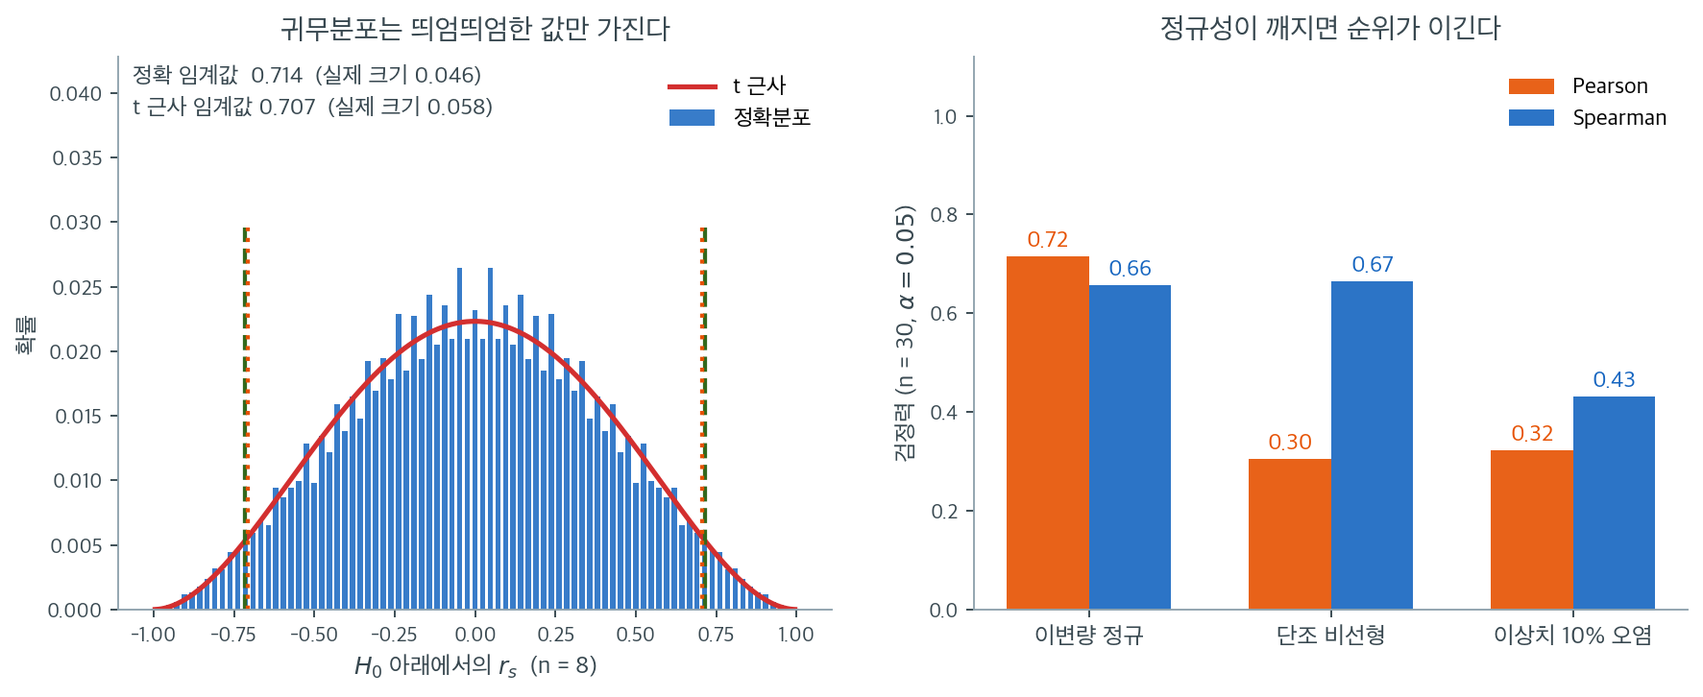
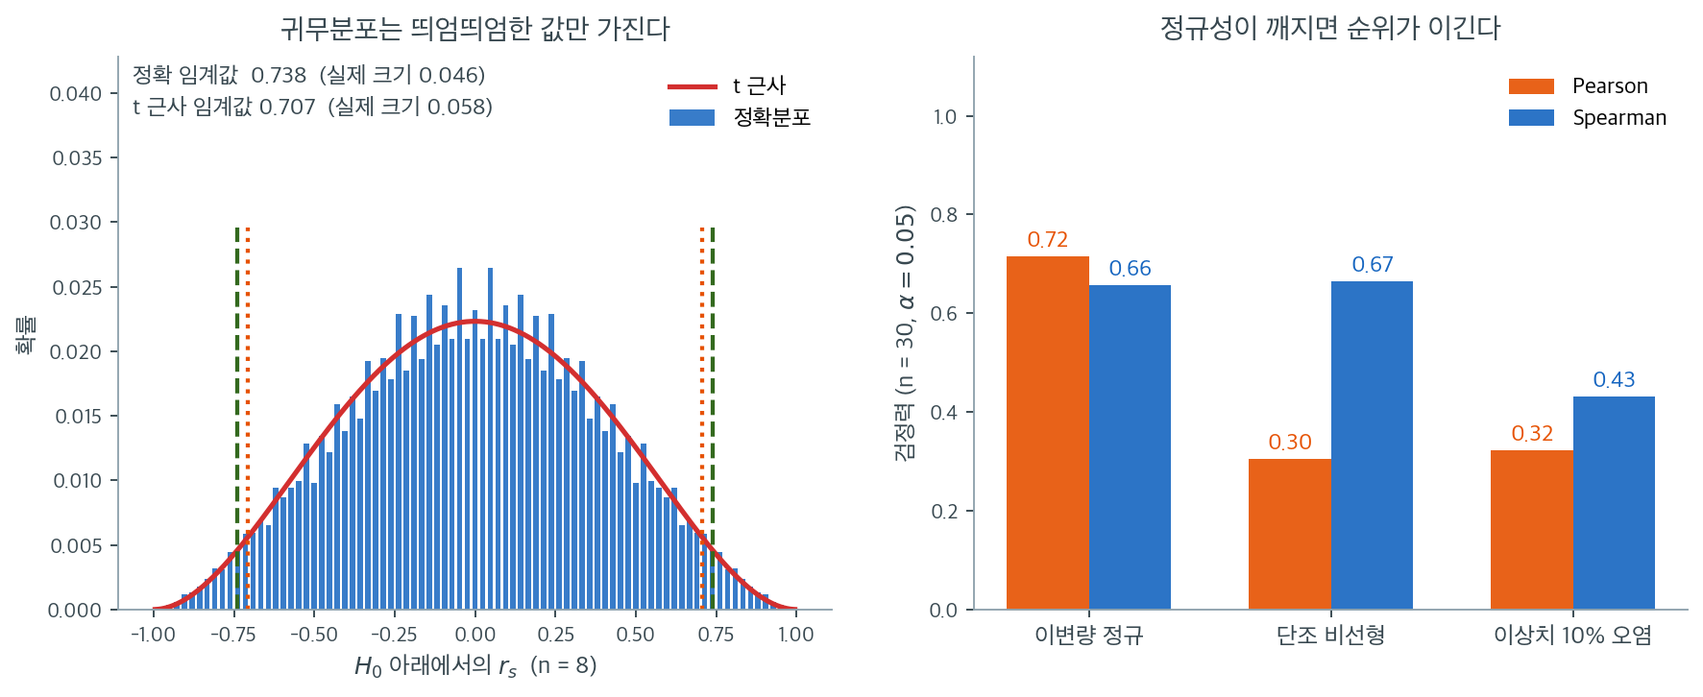
fix(ch12): 보고만 해 두었던 항목을 마무리한다
둘째 정독 패스가 고치지 않고 남긴 항목을 하나씩 판정해 끝냈다. 이미 닫힌 것과 보고가
틀린 것은 건드리지 않았고, 펜스를 고친 쪽은 실제로 돌린 출력을 붙여 verify_outputs 로
맞췄다. 그림을 다시 그린 것은 스크립트와 함께 담았다. 바깥 사실은 확인한 출처로만 고쳤다.

Changed region(s): [[0.4033, 0.3333, 0.4343, 0.8788], [0.1241, 0.3333, 0.1551, 0.8788], [0.1551, 0.0909, 0.2792, 0.1212]]

diff --git a/scripts/make_ch10_within_between.py b/scripts/make_ch10_within_between.py
@@ -2,7 +2,8 @@
 
 쪽의 2 절이 쓰는 설정 그대로다. 개인 1,800 명을 집단 간 상관 0.90,
 집단 내 상관 0.15 가 되도록 만들면 개인 수준 상관이 0.33 이고 30 명씩
-묶은 평균의 상관이 0.82 다.
+묶은 평균의 상관은 이론값이 0.82 다. 이 돌림(seed 1950)에서 실제로 나오는
+값은 0.3351 과 0.8431 이고 그림과 쪽의 캡션은 이 값을 쓴다.
 
 aggregation_inflation 은 그 둘의 산점도와 m 곡선을 그린다. 여기서는
 **한 그림 안에서** 집단 안의 기울기와 집단 사이의 기울기를 맞댄다 ---
@@ -25,8 +26,9 @@ def pair(n, rho, var):
     """표본 상관이 정확히 rho 가 되도록 맞춘 두 벡터.
 
     표본이 작으면(여기서는 집단 60 개) 뽑은 대로 두었을 때 상관이 목표에서
-    쉽게 벗어난다. 쪽이 적어 둔 0.33 과 0.82 를 그대로 재현하려고 직교화해
-    표본 상관을 못 박는다.
+    쉽게 벗어난다. 집단 간·집단 내 두 상관(0.90, 0.15)을 직교화해 못 박는다.
+    섞인 두 값(개인 0.3351, 묶은 평균 0.8431)은 못 박히지 않으므로 이론값
+    0.33·0.82 에서 조금 벗어난다.
     """
     a = rng.standard_normal(n)
     b = rng.standard_normal(n)
@@ -101,4 +103,4 @@ fig.savefig(path, dpi=170, facecolor="white", bbox_inches="tight")
 print("saved", path)
 print(f"  설정: 집단 간 {RB}, 집단 내 {RW}, Var_B = {VB:.4f}")
 print(f"  개인 수준 상관 {r_ind:.4f} (목표 0.33)")
-print(f"  {M} 명씩 묶은 평균의 상관 {r_grp:.4f} (목표 0.82)")
+print(f"  {M} 명씩 묶은 평균의 상관 {r_grp:.4f} (이론값 0.82)")

diff --git a/scripts/make_ch10_r_blind_to_scale.py b/scripts/make_ch10_r_blind_to_scale.py
@@ -1,4 +1,4 @@
-"""12.2절 회귀직선과 상관 — 상관은 순서만 보고 눈금은 보지 않는다.
+"""12.2절 회귀직선과 상관 — 상관은 순서만 보고 척도는 보지 않는다.
 
 예측을 통째로 4 만큼 올려 놓아도 순서는 그대로이니 상관이 정확히 1 인데,
 결정계수는 -1.0 이다. 「표적의 평균을 그냥 내놓는 것보다 두 배 나쁘다」는 뜻이다.
@@ -26,7 +26,7 @@ b, a = np.polyfit(x, y, 1)
 CASES = [("OLS 적합값\n(훈련 자료)", a + b * x, "tab:blue"),
          ("평행이동만\ny + 4", y + 4, "tab:red"),
          ("축소된 예측\n0.5y + 5", 0.5 * y + 5, "tab:orange"),
-         ("눈금이 어긋난 예측\n2y + 5", 2 * y + 5, "tab:purple")]
+         ("척도가 어긋난 예측\n2y + 5", 2 * y + 5, "tab:purple")]
 
 rows = [(lab, yh, c, stats.pearsonr(y, yh)[0], r2_score(y, yh))
         for lab, yh, c in CASES]

diff --git a/scripts/make_ch10_correlation_test_figures.py b/scripts/make_ch10_correlation_test_figures.py
@@ -151,11 +151,13 @@ def fig_spearman():
 
     vals = np.unique(np.round(np.abs(rs_all), 10))
     r_exact = None
+    # vals 는 소수 10 자리로 반올림했으므로 허용폭이 반올림 오차(~1e-11)보다 커야 한다.
+    # 1e-12 로 두면 0.714 원자가 빠져 임계값이 한 칸 낮게 찍힌다.
     for v in vals[::-1]:
-        if (np.abs(rs_all) >= v - 1e-12).mean() > 0.05:
+        if (np.abs(rs_all) >= v - 1e-9).mean() > 0.05:
             break
         r_exact = v
-    size_exact = float((np.abs(rs_all) >= r_exact - 1e-12).mean())
+    size_exact = float((np.abs(rs_all) >= r_exact - 1e-9).mean())
 
     # 검정력 비교
     reps = 4000

diff --git a/scripts/make_ch10_ecological_figures.py b/scripts/make_ch10_ecological_figures.py
@@ -6,7 +6,7 @@ r"""12장 생태학적 상관 네 쪽의 개념 그림을 생성한다.
   ch12/ecological_correlation/img/aggregation_inflation.png 집계는 상관을 부풀린다
   ch12/ecological_correlation/img/simpson_weights.png     가중평균이 부등호를 뒤집는다
 
-실행:  python3 scripts/make_ch12_ecological_figures.py   (저장소 최상위에서)
+실행:  python3 scripts/make_ch10_ecological_figures.py   (저장소 최상위에서)
 필요:  numpy, scipy, matplotlib — 문서 빌드에는 필요하지 않다.
        PNG는 커밋되므로 CI에서 다시 그리지 않는다.
 """

diff --git a/docs/ch12/correlation_test/comparing_correlations.md b/docs/ch12/correlation_test/comparing_correlations.md
@@ -69,9 +69,9 @@ $1915$ 년, 스물다섯 살의 로널드 피셔가 『Biometrika』 $10$ 권 $4
 
 피셔는 어조를 누그러뜨려 다른 곳에 실었다. 갓 창간된 이탈리아 학술지 **『Metron』 $1$ 권 $3$–$32$ 쪽**, 제목은 「작은 표본에서 얻은 상관계수의 「확률오차」에 관하여」. **$z$ 변환이 그 안에 있다.** 그리고 그는 다시는 『Biometrika』에 원고를 보내지 않겠다고 다짐했고, 그 다짐을 지켰다.
 
-그래서 이 쪽이 쓰는 도구는 창간호나 다름없는 학술지에 실려 있다. 넉 해 앞서 같은 편집자가 [파이 계수 쪽](../correlation/special_cases.md)의 상자에 나오는 그 싸움을 벌였다는 것을 떠올리면, 우연이 아니다. **학술지 하나의 편집권이 한 사람에게 있던 시절의 이야기다.**
+그래서 이 쪽이 쓰는 도구는 창간호나 다름없는 학술지에 실려 있다. $1913$ 년, 곧 그 「협동 연구」보다 넉 해 앞서 같은 편집자가 [파이 계수 쪽](../correlation/special_cases.md)의 상자에 나오는 그 싸움을 벌였다는 것을 떠올리면, 우연이 아니다. **학술지 하나의 편집권이 한 사람에게 있던 시절의 이야기다.**
 
-_확인한 곳 — Fisher 의 「Frequency distribution of the values of the correlation coefficient in samples of an indefinitely large population」이 『Biometrika』 $10$ 권 $4$ 호 $507$–$521$ 쪽($1915$)이고, $z$ 변환을 담은 「On the "probable error" of a coefficient of correlation deduced from a small sample」이 『Metron』 $1$ 권 $3$–$32$ 쪽($1921$)이며 $z$ 의 표준편차가 $\rho$ 와 무관한 $1/\sqrt{N-3}$ 이라는 것은 [Wikipedia 「Fisher transformation」](https://en.wikipedia.org/wiki/Fisher_transformation) · 피어슨이 이십 년 넘게 적률만 근사했다는 것, $1917$ 년에 그가 조수 넷과 「협동 연구」를 『Biometrika』에 실어 피셔의 결과가 베이즈 정리의 오용에서 나왔다고 문제 삼았다는 것, 피셔의 거친 반박을 피어슨이 게재 거절했고 피셔가 어조를 누그러뜨려 신생 학술지 『Metron』에 실었다는 것, 그리고 그가 다시는 『Biometrika』에 논문을 보내지 않기로 했다는 것은 Aris Spanos, [「R. A. Fisher: how an outsider revolutionized statistics」](https://errorstatistics.com/2014/02/17/r-a-fisher-how-an-outsider-revolutionized-statistics-2/) 에서 읽었다 — 그 글은 Joan Fisher Box 의 전기($1978$)와 Hald 의 통계사($1998$)를 근거로 든다. **나는 $1917$ 년 「협동 연구」 원본을 보지 않았다.** 그림의 표준편차와 편향은 $n = 12$ 에서 $200{,}000$ 번씩 모의실험해 직접 계산한 값이다_
+_확인한 곳 — Fisher 의 「Frequency distribution of the values of the correlation coefficient in samples of an indefinitely large population」이 『Biometrika』 $10$ 권 $4$ 호 $507$–$521$ 쪽($1915$)이고, $z$ 변환을 담은 「On the "probable error" of a coefficient of correlation deduced from a small sample」이 『Metron』 $1$ 권 $3$–$32$ 쪽($1921$)이며 $z$ 의 표준편차가 $\rho$ 와 무관한 $1/\sqrt{N-3}$ 이라는 것은 [Wikipedia 「Fisher transformation」](https://en.wikipedia.org/wiki/Fisher_transformation) · 피어슨이 이십 년 넘게 적률만 근사했다는 것, $1917$ 년에 그가 조수 넷과 「협동 연구」를 『Biometrika』에 실어 피셔의 결과가 베이즈 정리의 오용에서 나왔다고 문제 삼았다는 것, 피셔의 거친 반박을 피어슨이 게재 거절했고 피셔가 어조를 누그러뜨려 신생 학술지 『Metron』에 실었다는 것, 그리고 그가 다시는 『Biometrika』에 논문을 보내지 않기로 했다는 것은 Aris Spanos, [「R. A. Fisher: how an outsider revolutionized statistics」](https://errorstatistics.com/2014/02/17/r-a-fisher-how-an-outsider-revolutionized-statistics-2/) 에서 읽었다 — 그 글은 Joan Fisher Box 의 전기($1978$)와 Hald 의 통계사($1998$)를 근거로 든다. **나는 $1917$ 년 「협동 연구」 원본을 보지 않았다.** $1913$ 년의 싸움은 [파이 계수 쪽](../correlation/special_cases.md) 상자와 그 출처 줄에 있다. 그림의 표준편차와 편향은 $n = 12$ 에서 $200{,}000$ 번씩 모의실험해 직접 계산한 값이다_
 
 </div>
 
@@ -407,7 +407,7 @@ $$
 
     **이론 검정력 $0.8002$ 와 모의 검정력 $0.8009 \pm 0.0028$ 이 맞는다.** 차이 $0.0007$ 은 몬테카를로(Monte Carlo) 오차의 $4$ 분의 $1$ 이다. 귀무가설(null hypothesis)이 참일 때의 기각률도 $0.0498$ 로 명목 $0.05$ 와 맞으므로, 피셔 $z$ 근사가 $n = 130$ 에서 제 몫을 한다.
 
-    **표본이 겹치면 이 식을 쓸 수 없다.** 분산을 합으로 쓴 자리가 바로 두 $z$ 의 독립을 쓴 곳이다. 같은 사람에게서 잰 $r_{XY}$ 와 $r_{XZ}$ 는 $X$ 를 공유하므로 서로 독립이 아니고, 둘의 공분산은 $r_{YZ}$ 에 달려 있다. $r_{YZ}$ 가 크면 차이의 분산이 **합보다 한참 작아진다.** 실제로 $r_{XY} = r_{XZ} = 0.5$, $n = 200$ 에서 재어 보면 $r_{YZ} = 0.9$ 일 때 차이의 분산이 독립 가정이 주는 $2/(n-3)$ 의 **$0.13$ 배**, $r_{YZ} = 0.5$ 일 때 $0.56$ 배다. 그만큼 독립 공식은 분산을 부풀려 **지나치게 보수적인** 검정이 된다. 그래서 이 절 앞부분의 스타이거 식처럼 $r_{YZ}$ 가 들어간 별도의 공식이 필요하다.
+    **표본이 겹치면 이 식을 쓸 수 없다.** 분산을 합으로 쓴 자리가 바로 두 $z$ 의 독립을 쓴 곳이다. 같은 사람에게서 잰 $r_{XY}$ 와 $r_{XZ}$ 는 $X$ 를 공유하므로 서로 독립이 아니고, 둘의 공분산은 $r_{YZ}$ 에 달려 있다. $r_{YZ}$ 가 크면 차이의 분산이 **합보다 한참 작아진다.** 실제로 $r_{XY} = r_{XZ} = 0.5$, $n = 200$ 에서 재어 보면 $r_{YZ} = 0.9$ 일 때 차이의 분산이 독립 가정이 주는 $2/(n-3)$ 의 **$0.13$ 배**, $r_{YZ} = 0.5$ 일 때 $0.61$ 배다. 그만큼 독립 공식은 분산을 부풀려 **지나치게 보수적인** 검정이 된다. 그래서 이 절 앞부분의 스타이거 식처럼 $r_{YZ}$ 가 들어간 별도의 공식이 필요하다.
 
 ---
 
@@ -1014,10 +1014,10 @@ $$
     남성(n=180)과 여성(n=210)에서 스트레스와 수면의 상관
 
       남성  r = 0.52  [0.40, 0.62]
-      여성  r = 0.31  [0.19, 0.43]
+      여성  r = 0.31  [0.18, 0.43]
 
-      차이  Δr = 0.21,  95% CI [0.04, 0.37]   (조우의 방법)
-      피셔 z 검정: z = 2.36, p = 0.018
+      차이  Δr = 0.21,  95% CI [0.05, 0.37]   (조우의 방법)
+      피셔 z 검정: z = 2.50, p = 0.012
 
     구간이 0 을 포함하지 않으나 상한이 0.37 로 넓어,
     차이의 크기는 정밀하게 추정되지 않았다.

diff --git a/docs/ch12/visualization/heatmaps.md b/docs/ch12/visualization/heatmaps.md
@@ -214,8 +214,9 @@ $$
   **$0.974$** 인데 문맥벡터의 차이는 $10^{-14}$ 보다 작다. 열지도 두 장이 전혀 다른데
   아래 층에 도착하는 것은 완전히 같은 수다. $\tilde a$ 가 쓰는 토큰이 **$9$ 개**인
   것도 우연이 아니다 — 제약이 $d+1 = 9$ 개이니 그만큼이면 맞출 수 있다.
-- **②** 그 자유가 얼마나 되는지는 $T$ 와 $d$ 가 정한다. 토큰 $10$ 개에 $d = 8$ 이면
-  거리가 $0.10$ 까지 떨어지지만, 토큰 $50$ 개에 $d = 8$ 이면 **$0.967$** 이다. 문장이
+- **②** 그 자유가 얼마나 되는지는 $T$ 와 $d$ 가 정한다. 어텐션을 $300$ 번 새로 뽑아 찾은
+  거리의 평균으로 보면, 토큰 $10$ 개에 $d = 8$ 이면 $0.10$ 까지 떨어지지만 토큰 $50$ 개에
+  $d = 8$ 이면 **$0.967$** 이다(① 의 $0.974$ 는 한 번 뽑은 사례의 값이다). 문장이
   길수록 열지도는 자유로워진다.
 - **③** 설령 $a$ 가 유일하더라도 문제가 하나 더 있다. 열지도가 칠하는 것은 $a_t$ 인데
   실제 기여는 $a_t\,(w\cdot h_t)$ — **가중치에 값을 곱한 것**이다. 토큰 $50$ 개에서
@@ -223,7 +224,7 @@ $$
   **$0.344$** 다(우연이면 $0.020$). 둘의 순위상관 중앙값은 $0.803$ 으로 꽤 높은데도
   그렇다 — **대체로 맞지만 꼭대기에서 자주 어긋난다.**
 
-이 쪽의 ETF 열지도로 돌아가 보면 차이가 분명하다. 거기서 XLI 와 DIA 가 만나는 $0.87$ 이라는 칸은 **잰 값**이다.
+이 쪽의 ETF 열지도로 돌아가 보면 차이가 분명하다. 거기서 XLI 와 DIA 가 만나는 $0.87$(상관행렬에서 꺼내면 $0.8697$) 이라는 칸은 **잰 값**이다.
 두 수익률 계열에서 공식 하나로 나오고, 다른 값으로 바꿔 쓸 자유가 없다. 어텐션 열지도의
 칸은 그렇지 않다 — ① 이 보여 주듯 **모형을 전혀 바꾸지 않고도 다른 값으로 갈아 끼울 수
 있다.** 상관계수는 자료의 성질이고 어텐션 가중치는 모형이 중간에 들고 있던 수 하나일
@@ -870,7 +871,7 @@ $$
     | SPY–GLD | $+0.0787$ | $0.23033$ | $0.26560$ | $0.03527$ | $0.02652$ |
     | SPY–VXX | $-0.5471$ | $0.38678$ | $0.52413$ | $0.13736$ | $0.07480$ |
 
-    위의 세 줄에서는 근사와 실제가 소수 셋째 자리까지 같고, 차가 오차 주항 $(1-r)^2/32$ 와 유효숫자 한 자리까지 맞는다. **$r \ge 0.9$ 면 "$1-r$ 의 사분의 일"로 머릿속에서 계산해도 된다.** $r = 0.0787$ 부터는 $u$ 가 $1$ 에 가까워 전개가 더 이상 한 항으로 끝나지 않고, $r = -0.5471$ 에서는 근사가 $0.387$, 실제가 $0.524$ 로 $26\%$ 나 어긋난다.
+    위의 세 줄에서는 근사와 실제가 소수 셋째 자리까지 같고, 차가 오차 주항 $(1-r)^2/32$ 와 거의 같다(가장 어긋나는 QQQ–XLK 에서도 $0.00010$ 대 $0.00009$ 다). **$r \ge 0.9$ 면 "$1-r$ 의 사분의 일"로 머릿속에서 계산해도 된다.** $r = 0.0787$ 부터는 $u$ 가 $1$ 에 가까워 전개가 더 이상 한 항으로 끝나지 않고, $r = -0.5471$ 에서는 근사가 $0.387$, 실제가 $0.524$ 로 $26\%$ 나 어긋난다.
 
     마지막 물음의 답은 **아니다.** SPY–DIA 의 감소가 $1.2\%$ 인 것은 $f$ 가 평평해서가 아니라 $1 - r = 0.0463$ 이 작고 그것이 다시 $4$ 로 나누어지기 때문이다. 기울기 $0.25$ 는 그대로 살아 있으므로, 만약 SPY–DIA 의 상관이 $0.9537$ 에서 $0.8537$ 로 $0.1$ 떨어진다면 감소율은 $1.2\%$ 에서 약 $1.2\% + 0.1/4 = 3.7\%$ 로 **세 배가 된다.** 실제로 $1 - \sqrt{1.8537/2} = 0.0373$ 이다. 높은 상관의 구간이 둔감한 것이 아니라, **그 구간에서는 애초에 줄일 것이 거의 없다.** $\square$
 
@@ -1043,7 +1044,7 @@ $$
 
     **(3) 평균이 뛴 것은 세상이 아니라 표본의 구성이 바뀐 탓이다.** 사라진 $91$ 짝 가운데 $63$ 짝의 평균 $0.5147$ 은 남긴 $45$ 짝의 $0.6230$ 과 그리 다르지 않다. 평균을 끌어내리고 있던 것은 **$28$ 짝, 곧 전체의 $21\%$ 에 불과한 VXX·GLD 줄**이고 그 평균이 $-0.1860$ 이다. 추리기가 한 일은 "읽기 쉽게 종목을 줄인 것"이 아니라 **평균을 끌어내리던 두 줄을 통째로 지운 것**이고, 그래서 $N_{\text{eff}}$ 가 $2.27$ 에서 $1.51$ 로 떨어졌다.
 
-    거꾸로 업종 펀드 $10$ 개에 VXX 와 GLD 를 더해 $12$ 종목으로 그렸다면 평균은 **내려간다.** 새로 생기는 짝은 $\binom{12}{2} - \binom{10}{2} = 66 - 45 = 21$ 개이고, 그중 $20$ 개가 VXX·GLD 대 업종 펀드 짝이다. 이들은 위에서 본 $28$ 짝의 일부여서 평균이 $-0.19$ 쯤이므로, 기존 $45$ 짝의 $0.6230$ 과 섞이면 전체 평균은 $0.62$ 보다 뚜렷이 낮아진다. **같은 자료에서 종목을 둘 더해 열지도가 더 어두워지는 것이 아니라 포트폴리오가 실제로 좋아진다.** $\square$
+    거꾸로 업종 펀드 $10$ 개에 VXX 와 GLD 를 더해 $12$ 종목으로 그렸다면 평균은 **내려간다.** 새로 생기는 짝은 $\binom{12}{2} - \binom{10}{2} = 66 - 45 = 21$ 개이고, 그중 $20$ 개가 VXX·GLD 대 업종 펀드 짝이다. 이들은 위에서 본 $28$ 짝의 일부이고, 같은 상관행렬에서 꺼내 보면 그 $20$ 짝의 평균이 $-0.1826$ 이다(나머지 한 짝 VXX–GLD 는 $-0.1075$). 기존 $45$ 짝의 $0.6230$ 과 섞이면 $66$ 짝 전체의 평균은 $0.3678$ 로, $0.62$ 보다 뚜렷이 낮아진다. **같은 자료에서 종목을 둘 더해 열지도가 더 어두워지는 것이 아니라 포트폴리오가 실제로 좋아진다.** $\square$
 
 <div class="drillbox" markdown>
 
@@ -1206,6 +1207,8 @@ $$
     print(f"  r_AB={P.loc['A','B']:.3f}, r_AC={P.loc['A','C']:.3f} 이면 "
           f"r_BC ≥ {lo:.4f} 여야 하는데 관측값은 {P.loc['B','C']:.4f}")
     ```
+
+    출력:
 
     ```text
       결측 패턴: 행마다 한 변수씩 결측 (총 300 행)

diff --git a/docs/ch12/correlation_test/correlation_tests.md b/docs/ch12/correlation_test/correlation_tests.md
@@ -1221,14 +1221,14 @@ $n = 25$인 표본에서 피어슨 상관이 $r = 0.42$이다. 상관에 대한 
     | $H_0:\rho=\rho_0$ | **피셔 $z$** |
     | 신뢰구간 | 피셔 $z$(정규) 또는 **부트스트랩**(비정규) |
     | **"상관 없음" 주장** | **TOST 등가성 검정** |
-    | $n<15$ · 이상치 | **순열검정** |
+    | $n<20$ · 이상치 | **순열검정** |
     | 군집 자료 | **다수준 모형**이나 군집 부트스트랩 |
 
     **핵심 수치 일곱.**
 
     | 사실 | 값 |
     |---|---|
-    | $H_0:\rho=0$의 오류율(코시, $n=100$) | **0.047**(견고) |
+    | $H_0:\rho=0$의 오류율(코시, $n=100$) | **0.047**(로버스트) |
     | 피셔 $z$ 구간의 포함확률(coverage probability)(로그정규, $n=500$) | **0.648** |
     | 부트스트랩으로 개선 | 0.729 → **0.914** |
     | $\rho=0.2$ 검출에 필요한 $n$(검정력 0.8) | **194** |
@@ -1239,7 +1239,7 @@ $n = 25$인 표본에서 피어슨 상관이 $r = 0.42$이다. 상관에 대한 
     **가장 중요한 구분.**
 
     ```text
-    H0: ρ = 0 의 검정       →  분포 가정에 매우 견고
+    H0: ρ = 0 의 검정       →  분포 가정에 매우 로버스트
     구간 · ρ0 ≠ 0 의 검정   →  이변량 정규성이 필요
 
     "비정규라서 검정을 못 한다"는 대개 과장이고
@@ -1596,7 +1596,7 @@ $H_0:\rho=0$의 $t$ 검정은 **정규성을 요구하는가?** 여러 분포에
                         코시   0.0771   0.0641   0.0470
     ```
 
-    **놀랍도록 견고하다.** 왜도(skewness) 6의 로그정규, 분산이 무한한 코시에서도 오류율이 거의 0.05다.
+    **놀랍도록 로버스트하다.** 왜도(skewness) 6의 로그정규, 분산이 무한한 코시에서도 오류율이 거의 0.05다.
 
     | 분포 | $n=10$ | $n=100$ |
     |---|---|---|
@@ -1606,7 +1606,7 @@ $H_0:\rho=0$의 $t$ 검정은 **정규성을 요구하는가?** 여러 분포에
 
     **코시의 작은 표본**($n=10$에서 0.077, $n=30$에서 0.064)이 가장 눈에 띄는 이탈이고, $n=100$이면 0.047로 회복된다.
 
-    **왜 견고한가.** $H_0:\rho=0$ **그리고 두 변수가 독립**이면, $Y$를 어떻게 뒤섞어도 분포가 같다. 즉 **교환가능성**(exchangeability)이 성립한다.
+    **왜 로버스트한가.** $H_0:\rho=0$ **그리고 두 변수가 독립**이면, $Y$를 어떻게 뒤섞어도 분포가 같다. 즉 **교환가능성**(exchangeability)이 성립한다.
 
     ```text
     독립 + H0 → (x_i, y_σ(i)) 의 분포가 모든 순열 σ 에서 동일
@@ -1639,7 +1639,7 @@ $H_0:\rho=0$의 $t$ 검정은 **정규성을 요구하는가?** 여러 분포에
 <div class="drillbox" markdown>
 
 **연습문제 8.** <span class="diff hard" title="어려움"></span>
-그렇다면 **신뢰구간**도 견고한가? $\rho=0.6$에서 확인하라.
+그렇다면 **신뢰구간**도 로버스트한가? $\rho=0.6$에서 확인하라.
 
 </div>
 
@@ -1694,7 +1694,7 @@ $H_0:\rho=0$의 $t$ 검정은 **정규성을 요구하는가?** 여러 분포에
             t(3) 주변화    0.9097    0.8697    0.7772    0.5372
     ```
 
-    **구간은 전혀 견고하지 않다.** 검정과 정반대다.
+    **구간은 전혀 로버스트하지 않다.** 검정과 정반대다.
 
     | 분포 | $n=30$ | $n=500$ |
     |---|---|---|
@@ -2037,7 +2037,7 @@ $H_0:\rho=0$의 $t$ 검정은 **정규성을 요구하는가?** 여러 분포에
     이다(피적분함수가 기함수이다). 세 계수는 모두 선형 연관이나 단조 연관을 측정하므로, 강한 결정론적 관계가 있음에도 0에 가깝다. 상관이 탐지하지 못하는 비단조 종속의 예이다.
 
     !!! note "$\sin$이었다면 결과가 다르다"
-        같은 구간에서 $y = \sin(x)$로 바꾸면 $\sin$은 기함수이고 $x$와 순증가하는 성분을 가지므로 $r \approx 0.74$가 나온다. 비선형이라고 해서 상관이 자동으로 0이 되는 것이 아니라, 대칭성 때문에 상쇄가 일어나야 0이 된다. $\square$
+        같은 구간에서 $y = \sin(x)$로 바꾸면 $\sin$은 기함수이고 $x$와 순증가하는 성분을 가지므로 위 코드의 $x$ 와 잡음을 그대로 두고 $\cos$ 만 $\sin$ 으로 바꾸면 $r = 0.7370$ 이 나온다. 모집단 값은 $\operatorname{Cov}(x, \sin x) = 1$ 에서 $1/\sqrt{(\pi^2/3)(1/2 + 0.3^2)} \approx 0.718$ 이다. 비선형이라고 해서 상관이 자동으로 0이 되는 것이 아니라, 대칭성 때문에 상쇄가 일어나야 0이 된다. $\square$
 
 ---
 

diff --git a/docs/ch12/confounding/confounding_variables.md b/docs/ch12/confounding/confounding_variables.md
@@ -531,7 +531,7 @@ New Correlation with Outliers: 0.6901
 
 ![이상치를 추가한 산점도](./img/confounding_204.png)
 
-이상치 몇 개를 더해도 상관이 0.6881에서 0.6901로 거의 변하지 않는다. $n = 20{,}640$이라 몇 점의 영향이 묽어지기 때문이다. 이상치의 위력은 표본크기에 반비례한다.
+이상치 몇 개를 더해도 상관이 0.6881에서 0.6901로 거의 변하지 않는다. $n = 20{,}640$이라 몇 점의 영향이 묽어지기 때문이다. 이상치 몇 개의 위력은 표본이 클수록 약해진다.
 
 
 ## 6. 측정되지 않았다면 — 잠복변수
@@ -591,7 +591,7 @@ $$
 
 ### 교육비 지출과 학업 성취
 
-학교 수준에서 학생 1인당 지출($X$)이 시험 점수($Y$)와 음의 상관을 보이는 경우가 있다. 잠복변수는 사회경제적 지위($Z$)이다. 부유한 학군은 (행정이 효율적이어서) 1인당 지출이 적으면서도 (가정 환경의 이점 덕분에) 시험 점수가 높을 수 있다. 사회경제적 요인을 통제한 뒤의 지출과 성취의 관계는 양일 수 있다.
+학교 수준에서 학생 1인당 지출($X$)이 시험 점수($Y$)와 음의 상관을 보이는 경우가 있다. 잠복변수는 사회경제적 지위($Z$)이다. 가난한 학군에 보충 지원금이 몰리면 부유한 학군은 상대적으로 1인당 지출이 적으면서도 (가정 환경의 이점 덕분에) 시험 점수가 높을 수 있다. 사회경제적 요인을 통제한 뒤의 지출과 성취의 관계는 양일 수 있다.
 
 ### 유기농 식품과 자폐
 
@@ -640,7 +640,7 @@ $X$ 와 $Y$ 모두에 앞서는가**를 찾는 연습이다. 다섯을 나란히
 
 ??? success "풀이"
     - **교란요인**: **사회경제적 배경** — 사회경제적 배경이 좋은 개인은 더 나은 교육을 받을 수 있고 소득도 높은 경향이 있다.
-    - **대처 방법**: 분석에서 사회경제적 지위를 통제한다. 가정 배경을 통제한 연구들은 학력이 소득에 양의 영향을 주지만 그 효과가 가정의 사회경제적 지위에 의해 조절됨을 보여준다.
+    - **대처 방법**: 분석에서 사회경제적 지위를 통제한다. 가정 배경을 통제한 연구들은 학력이 소득에 양의 영향을 주지만 그 효과의 일부는 가정의 사회경제적 지위가 만든 것이어서 통제하면 작아짐을 보여준다.
 
 <div class="exbox" markdown>
 
@@ -861,7 +861,7 @@ $$
 
 **(c)** $a$ 를 얼마로 잡으면 거친 기울기가 $0$ 이 되는가? 그런 자료를 받은 연구자가 $Z$ 를 모른 채 내릴 결론과, 3 절의 "추정값 변화" 기준이 $Z$ 를 알 때 말해 주는 것을 각각 적어라.
 
-**(d)** $X = cZ + \epsilon$ 으로 일반화하면 편향이 어떻게 적히는가? $c = -1$, $a > 0$ 인 "네 번째 판"에서 거친 기울기는 참값보다 큰가 작은가? 2 절이 "$Z$ 가 $X$ 와 $Y$ 각각에 어느 부호로 작용하는지까지 따져야" 한다고 한 이유를 이 식으로 설명하라.
+**(d)** $X = cZ + \epsilon$ 으로 일반화하면 편향이 어떻게 적히는가? 세 판과 달리 $c = -1$, $a > 0$ 인 판에서 거친 기울기는 참값보다 큰가 작은가? 2 절이 "$Z$ 가 $X$ 와 $Y$ 각각에 어느 부호로 작용하는지까지 따져야" 한다고 한 이유를 이 식으로 설명하라.
 
 </div>
 

diff --git a/docs/ch12/visualization/corr_viz.md b/docs/ch12/visualization/corr_viz.md
@@ -376,7 +376,7 @@ $$
 
     여기서 **열지도와 산점도 행렬이 서로 다른 척도 위에 있다**는 것이 드러난다. 열지도의 색은 $r$에 **선형**이라 $-0.51$ 칸이 $0.92$ 칸의 절반쯤 되는 세기로 보인다. 그런데 모양으로 재면 $1.76$ 대 $4.87$이라 절반이 아니라 $36\%$다. 같은 자료를 두 그림이 다르게 과장한다. 어느 쪽도 틀리지 않았고, **$r$은 색으로 읽고 모양은 산점도로 읽어야 한다**는 뜻이다.
 
-    **(2) 대각선 칸의 세로축은 도수다.** $(1,1)$ 칸은 $X_1$의 히스토그램이므로 세로축이 "몇 개인가"인데, 코드가 `j == 0`일 때 `set_ylabel(labels[i])`를 붙이므로 그 칸에도 `X1`이라는 세로축 이름이 달린다. 왼쪽 위 칸의 세로축 눈금이 $0$에서 $22$까지 올라가는 것이 그 흔적이다. 같은 행의 나머지 세 칸은 세로축이 정말 $X_1$이고 범위가 $-2$에서 $2$이니 **한 행 안에서 세로축이 두 가지 뜻으로 쓰인다.** 산점도 행렬의 고질적인 결함이고, 대각선에 이름만 적거나 밀도곡선을 그리는 구현이 많은 이유다.
+    **(2) 대각선 칸의 세로축은 도수다.** $(1,1)$ 칸은 $X_1$의 히스토그램이므로 세로축이 "몇 개인가"인데, 코드가 `j == 0`일 때 `set_ylabel(labels[i])`를 붙이므로 그 칸에도 `X1`이라는 세로축 이름이 달린다. 왼쪽 위 칸의 세로축 눈금이 $0$에서 $22$까지 올라가는 것이 그 흔적이다. 같은 행의 나머지 세 칸은 세로축이 정말 $X_1$이고 범위가 대략 $-2$에서 $2$ 남짓이니 **한 행 안에서 세로축이 두 가지 뜻으로 쓰인다.** 산점도 행렬의 고질적인 결함이고, 대각선에 이름만 적거나 밀도곡선을 그리는 구현이 많은 이유다.
 
     이런 결함을 감안해도 산점도 행렬은 열지도가 못 보여 주는 셋을 보여 준다. **비선형 관계**(연습문제 2의 포물선), **군집**(연습문제 5의 두 덩어리), **주변분포의 모양**(대각선의 왜도(skewness)와 이상치(outlier))이다.
 
@@ -861,7 +861,7 @@ _확인한 곳 — 바깥의 사실을 끌어오지 않았다. ①–③ 과 유
     **더 나쁜 점 — 별표는 효과크기(effect size)를 감춘다.**
 
     ```text
-    n = 1000 인 연구:  r = 0.07 도 p < 0.05  → **  찍힌다
+    n = 1000 인 연구:  r = 0.07 도 p ≈ 0.027 → *   찍힌다
     n = 20 인 연구:    r = 0.40 도 p = 0.08  → 안 찍힌다
 
     별표가 많은 그림 = 표본이 큰 연구
@@ -893,7 +893,7 @@ _확인한 곳 — 바깥의 사실을 끌어오지 않았다. ①–③ 과 유
 <div class="drillbox" markdown>
 
 **연습문제 9.** <span class="diff hard" title="어려움"></span>
-연습문제 5의 실패를 뒤집어, **변수의 순서**가 열지도의 가독성을 어떻게 바꾸는지 보여라.
+연습문제 1 의 지침 「계층 군집으로 변수 재배열」을 직접 확인해, **변수의 순서**가 열지도의 가독성을 어떻게 바꾸는지 보여라.
 
 </div>
 
